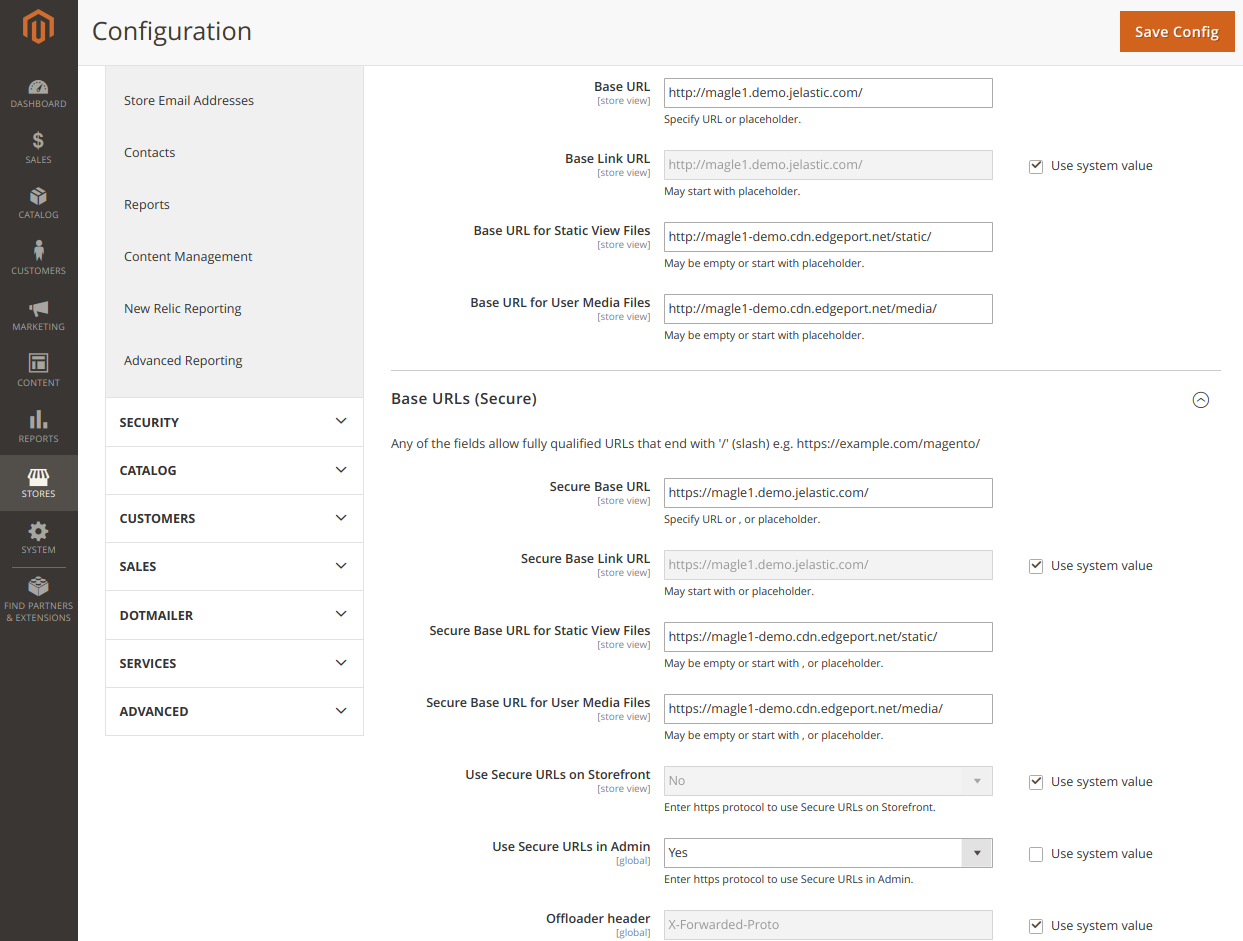
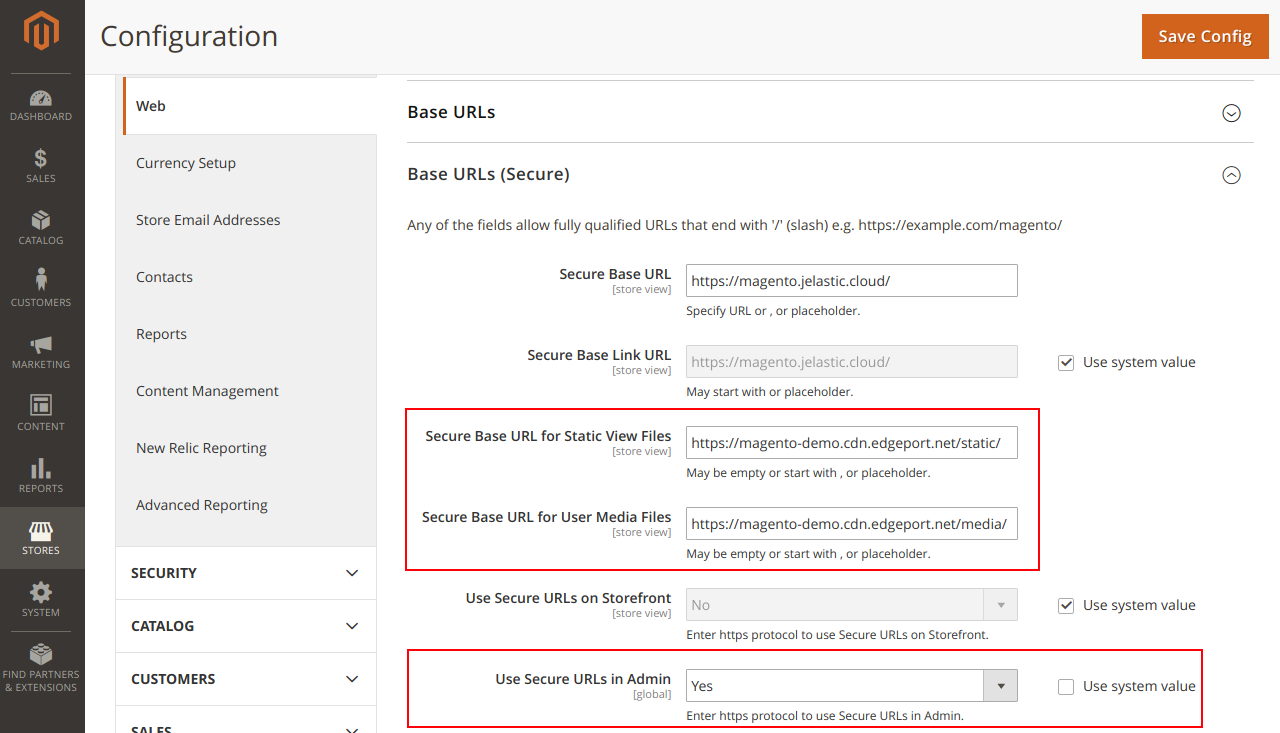
CDN-CORS issue covered

diff --git a/CORS-CDN/README.md b/CORS-CDN/README.md
@@ -1,24 +1,54 @@
 ## CORS issue fixing
 
-Installing the **Edgeport - Premium CDN Add-On** on Magento 2 application, you will be experiencing [**Cross-Origin Resource Sharing (CORS)**](https://en.wikipedia.org/wiki/Cross-origin_resource_sharing) issue which is invoked when a web application executes a cross-origin HTTP request when it requests a resource that has a different origin (domain, protocol, and port) than its own origin.
-      
-There are several ways how to overcome this issue. One of them we describe here.
+Installing the **Edgeport - Premium CDN Add-On** on Magento 2 application, you will be experiencing the [**Cross-Origin Resource Sharing (CORS)**](https://en.wikipedia.org/wiki/Cross-origin_resource_sharing) issue which is invoked when a web application executes a cross-origin HTTP request when it requests a resource that has a different origin (domain, protocol, and port) than its own origin.
+ 
+There are several ways how to overcome this issue. One of them we describe here for **NGINX** application server.
 Open [Jelastic Configuration Manager](https://docs.jelastic.com/configuration-file-manager) and do the following steps:
    
 1. Create new **/etc/nginx/conf.d/cors** directory. 
 
-2. Upload **cors.conf** file from repository directory **CORS-CDN** to **/etc/nginx/conf.d/cors** directory.
+2. Upload [**cors.conf**](https://raw.githubusercontent.com/sych74/magento/master/CORS-CDN/cors.conf) file from repository directory [**CORS-CDN**](https://github.com/sych74/magento/tree/master/CORS-CDN) to **/etc/nginx/conf.d/cors** directory.
    
-3. Open **cors.conf** , find line #5 and replace **magentohostname** with your environment hostname and **magentocdnhostname** with magento CDN hostname obtained upon Add-On installation.
+3. Open **cors.conf**, find line #5 and replace **SITE_DOMAIN** with your environment hostname.
    
-For example: **if ($http_origin ~* 'https?://(localhost|magento\\.jelastic\\.com|magento\\.cdn\\.edgeport\\.net)')** 
+For example: **if ($http_origin ~* 'https?://(localhost|magento\\.jelastic\\.cloud)')** 
    
-4. Replace **/etc/nginx/conf.d/site-default.conf** with **site-default.conf** from repository directory **CORS-CDN**.
+4. Edit **/etc/nginx/conf.d/site-default.conf** according to provided example [**site-default.conf**](https://raw.githubusercontent.com/sych74/magento/master/CORS-CDN/site-default.conf) from repository directory [**CORS-CDN**](https://github.com/sych74/magento/tree/master/CORS-CDN).
    
-5. The changes added as lines **67, 79, 104** and **113** to **site-default.conf**.
+5. The changes should be added as the lines **69, 81, 106** and **116** to **/etc/nginx/conf.d/site-default.conf** and look as follows:
 
-6. Change the URLs in magento admin panel like as on the example picture below.
+line 69: ***include /etc/nginx/conf.d/cors/cors.conf;***  
+
+line 81: ***add_header Access-Control-Allow-Origin "$http_origin";***  
+
+line 106: ***include /etc/nginx/conf.d/cors/cors.conf;***  
+
+line 116: ***add_header Access-Control-Allow-Origin "$http_origin";***
+
+6. Change the URLs in magento admin panel like as on the example picture below:
 
 <p align="left"> 
 <img src="../images/urls-example.png" width="600">
 </p>
+
+7. Clear Magento cache. 
+
+<p align="left"> 
+<img src="../images/cache-clearance.png" width="600">
+</p>
+  
+8. Restart application server to apply changes.
+ 
+<p align="left"> 
+<img src="../images/appserver-restart.png" width="600">
+</p>
+
+9. Clear CDN cache with Add-On's built-in feature **Purge All**
+  
+<p align="left"> 
+<img src="../images/purgeall.png" width="400">
+</p>
+  
+10. Wait up to 1 hour for static assets to be propagated across **CDN Points-of-Presence**.
+
+
